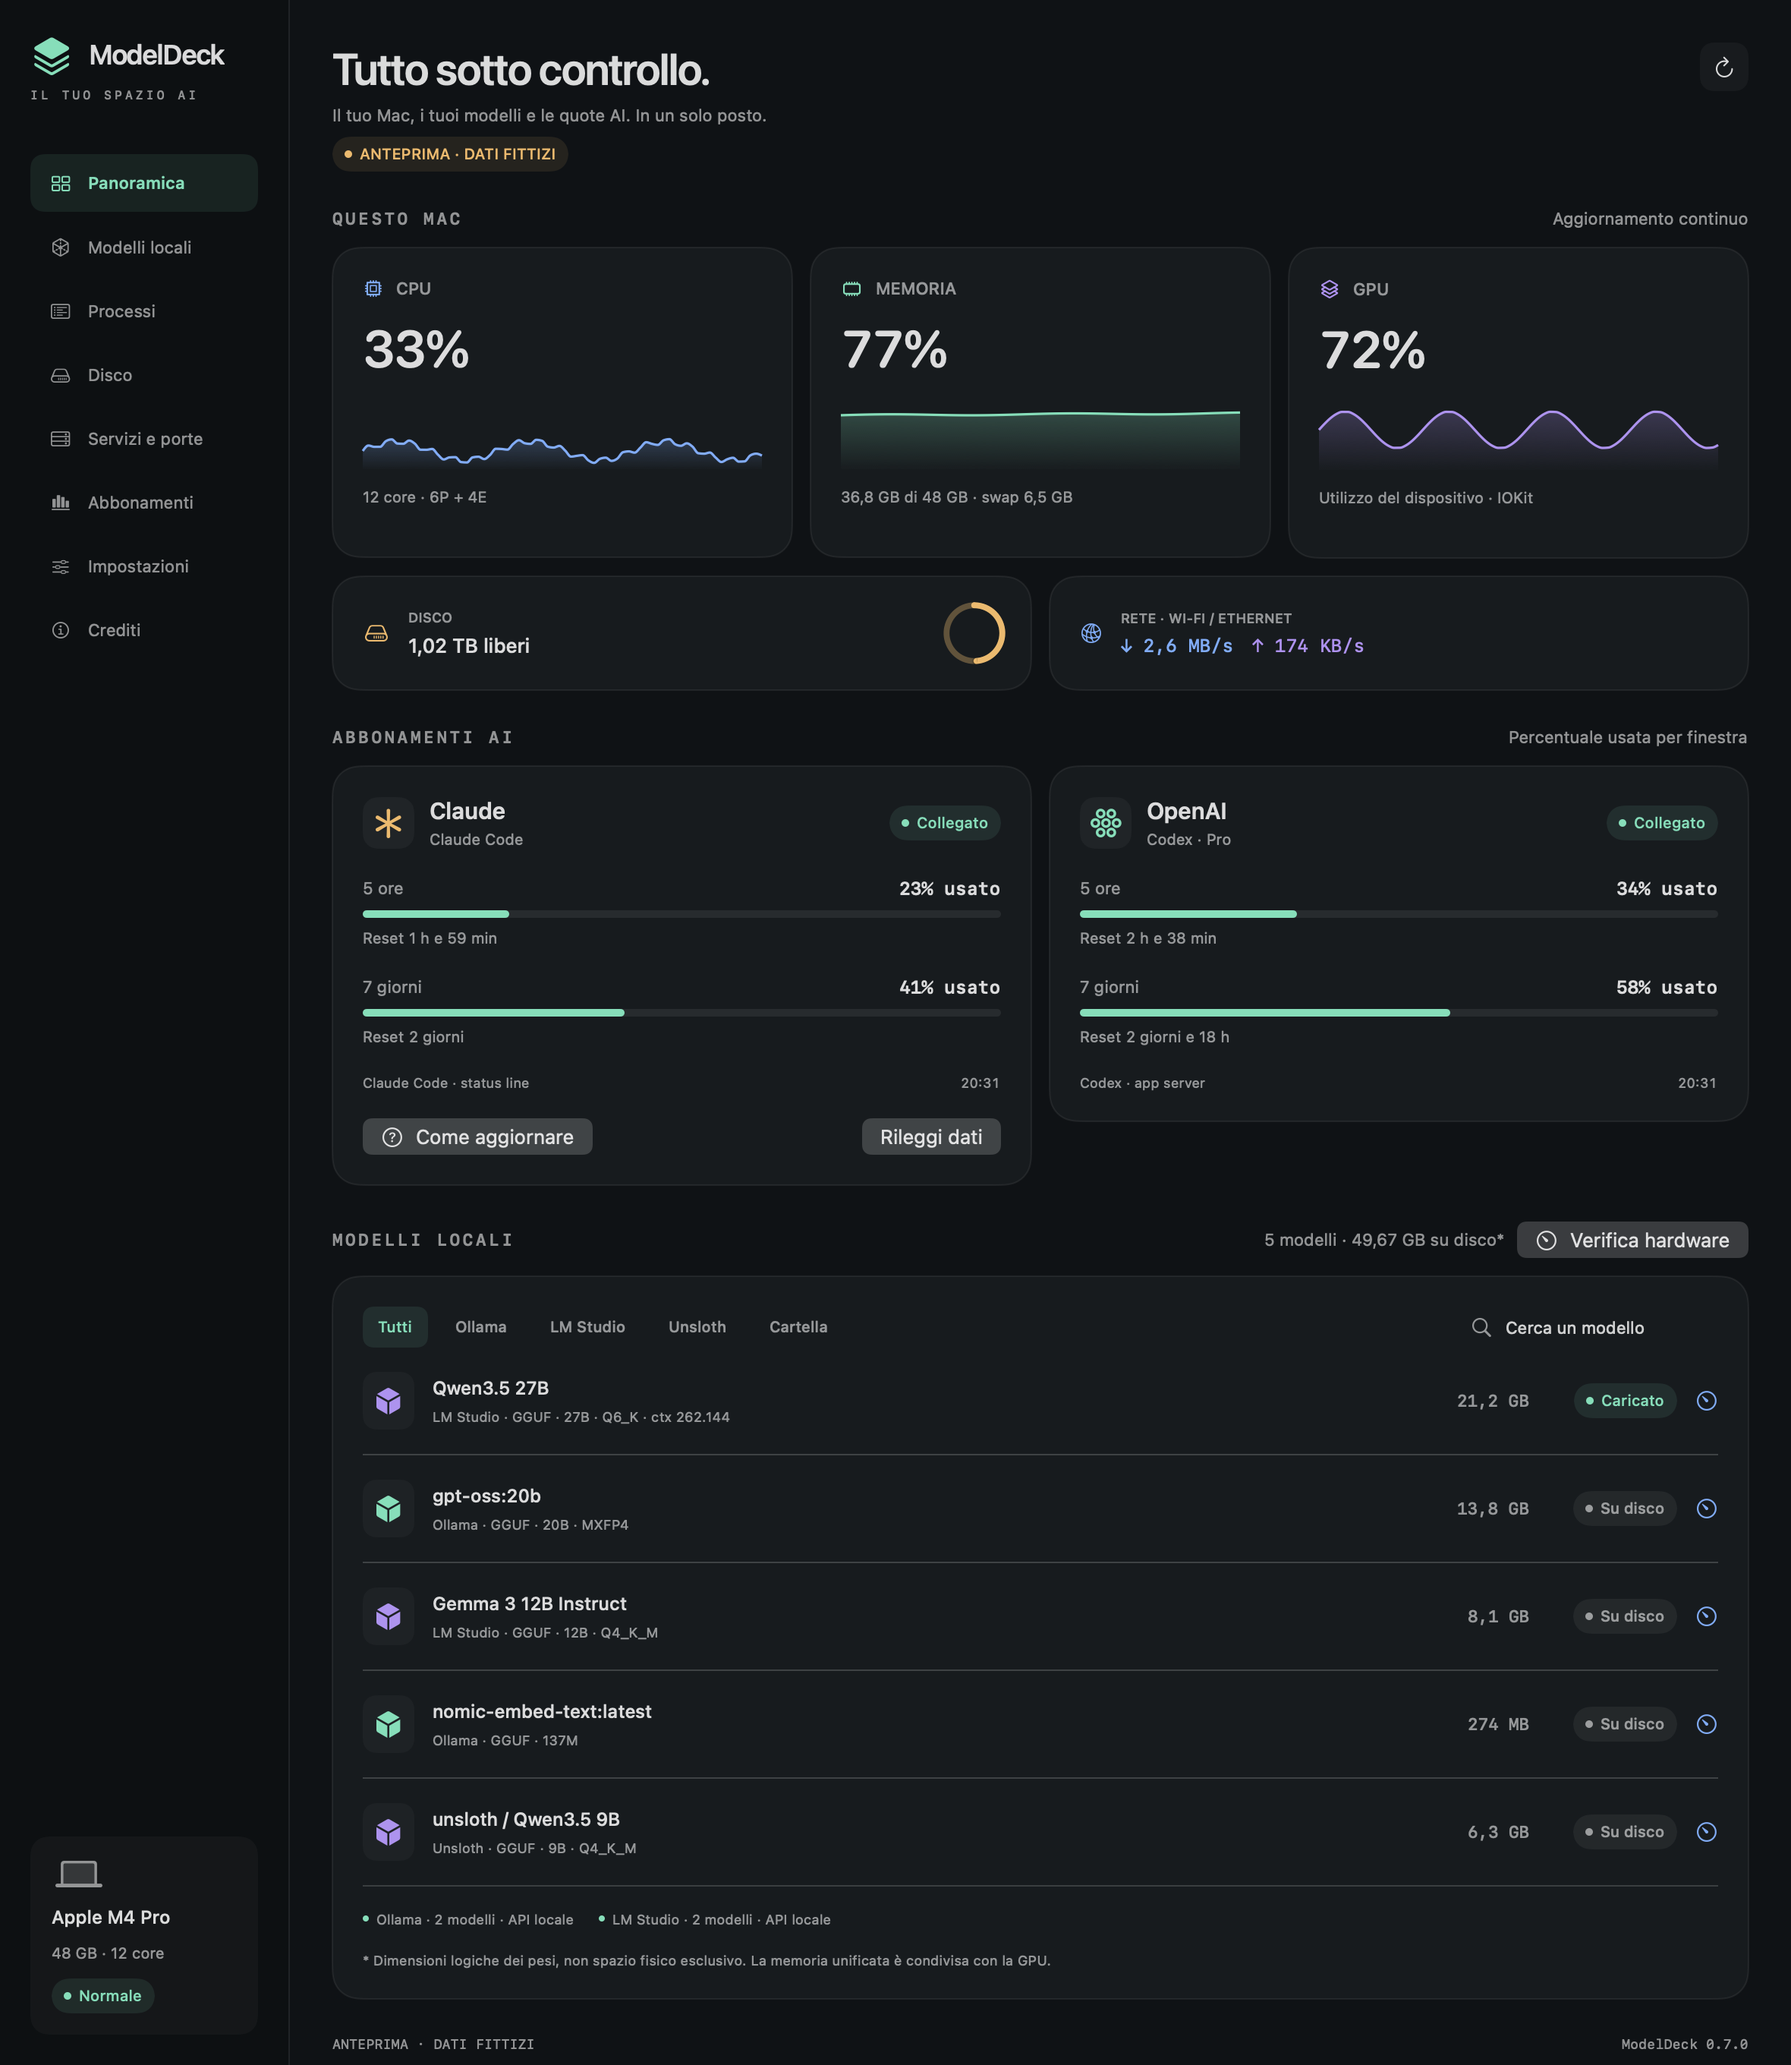
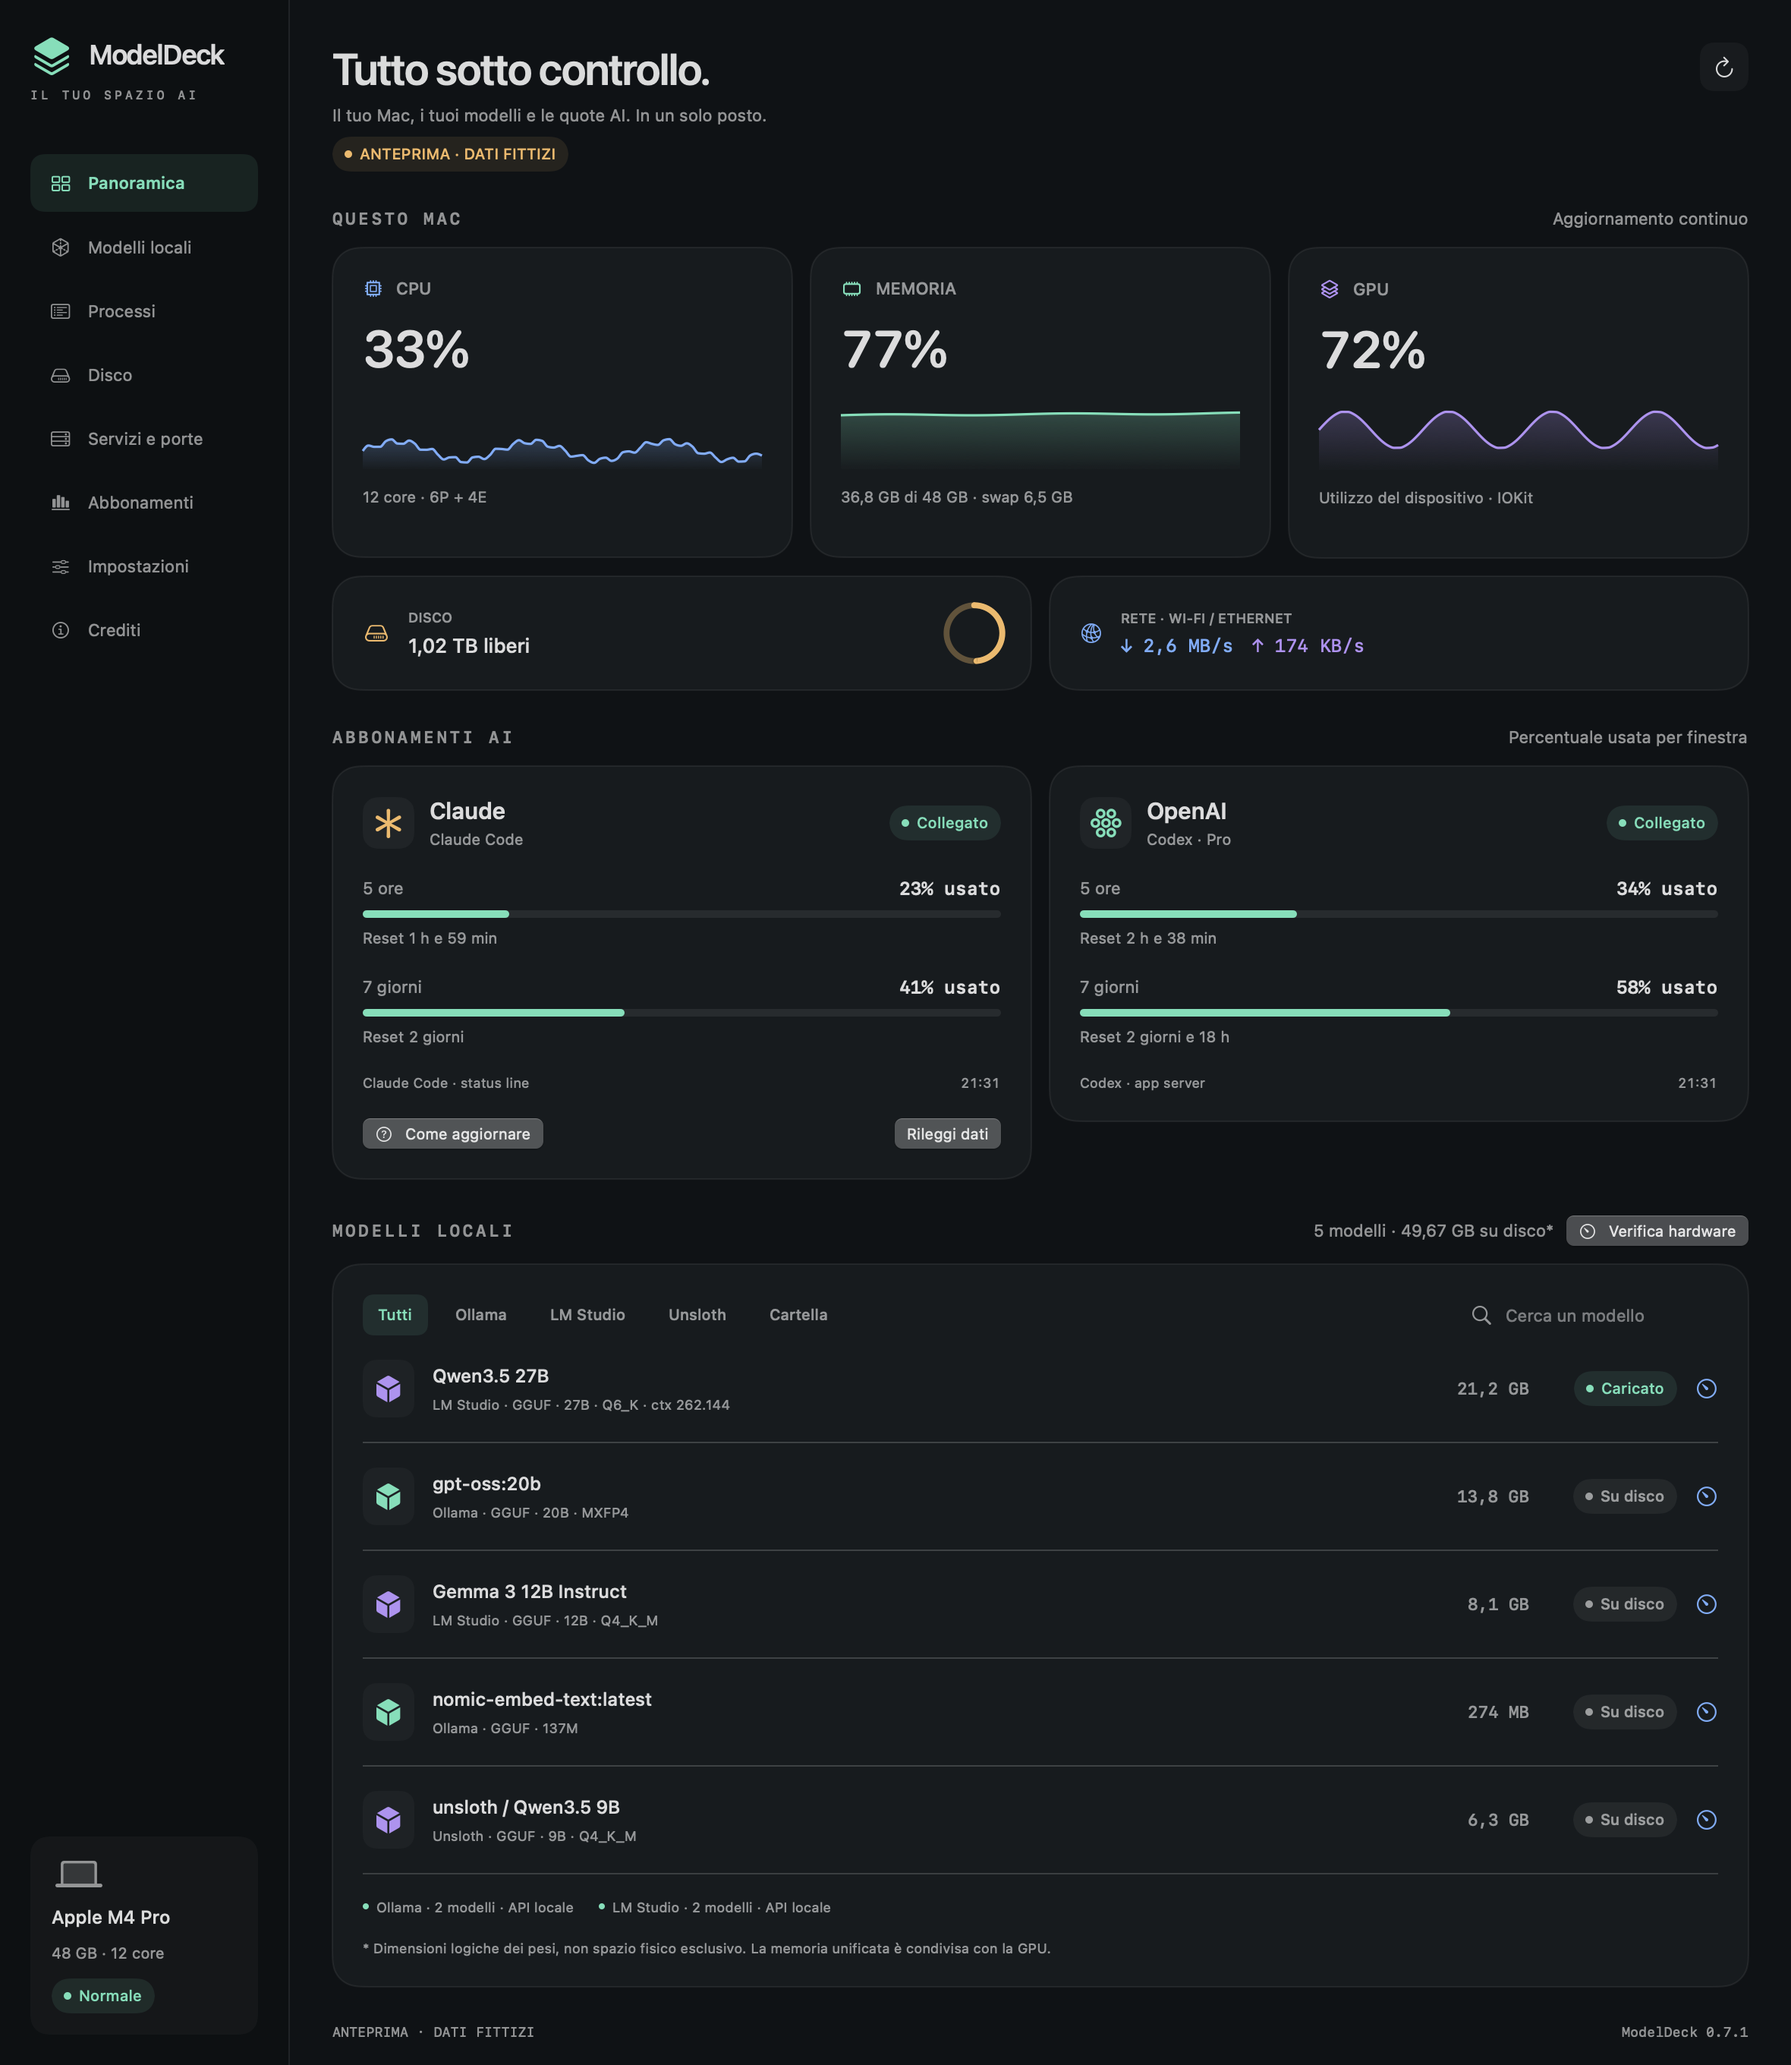
Release 0.7.1 with complete English menu tooltips and selectable build tools
Translate quota durations and freshness messages in native menu tooltips. Allow a selected compiler, SDK and build backend for Command Line Tools packaging, while preserving compatibility with macOS Bash.

Verified standalone localization fixtures, catalog validation, native menu checks in Italian and English, and the signed release bundle. Full XCTest rerun remains blocked by the Xcode license requirement.

diff --git a/Sources/ModelDeck/DeckApplicationDelegate.swift b/Sources/ModelDeck/DeckApplicationDelegate.swift
@@ -133,6 +133,8 @@ import ModelDeckCore
         menuOptionsOverride = options; refreshStatusItem()
         let text = statusItem?.button?.title ?? ""
         let showsValues = text.contains("CPU 33%") && text.contains("RAM") && text.contains(DeckLocalization.menuText("Claude 7g 41% usato")) && text.contains(DeckLocalization.menuText("OpenAI 7g 58% usato"))
+        let tooltip = statusItem?.button?.toolTip ?? ""
+        let localizedTooltip = DeckLanguage.current.code == "en" ? tooltip.contains("7 days") && tooltip.contains("used") && !tooltip.contains("utilizzato") : tooltip.contains("7 giorni")
         let imageAndText = statusItem?.button?.imagePosition == .imageLeading && statusItem?.length == NSStatusItem.variableLength
         store.snapshot.cpu = 41
         let updatesValues = statusItem?.button?.title.contains("CPU 41%") == true
@@ -153,7 +155,7 @@ import ModelDeckCore
         let iconOnly = statusItem?.button?.title.isEmpty == true && statusItem?.length == NSStatusItem.squareLength
         return ["template_icon": statusItem?.button?.image?.isTemplate == true,
                 "button_target": statusItem?.button?.target === self,
-                "selected_values": showsValues, "image_and_text": imageAndText,
+                "selected_values": showsValues, "localized_tooltip": localizedTooltip, "image_and_text": imageAndText,
                 "live_values": updatesValues, "icon_only": iconOnly,
                 "values_while_open": valuesWhileOpen, "values_while_closed": valuesWhileClosed,
                 "two_rows": twoRows, "two_rows_width": compactWidth,

diff --git a/Sources/ModelDeckCore/Localization.swift b/Sources/ModelDeckCore/Localization.swift
@@ -68,10 +68,12 @@ public enum DeckLocalization {
         guard parts.count == arguments.count + 1 else { return template }
         return parts.enumerated().reduce("") { $0 + ($1.offset > 0 ? arguments[$1.offset - 1] : "") + $1.element }
     }
-    public static func menuText(_ value: String) -> String {
-        guard DeckLanguage.current.code == "en" else { return value }
-        var text = value.components(separatedBy: "\n").map { dynamic($0) }.joined(separator: "\n")
-        for (source, target) in [("rimanente", "remaining"), ("usato", "used"), ("non disponibile", "unavailable"), ("da aggiornare", "needs refresh"), ("scaduto", "expired")] {
+    public static func menuText(_ value: String, language: DeckLanguage = .current) -> String {
+        guard language.code == "en" else { return value }
+        var text = value.components(separatedBy: "\n").map { line in
+            line.components(separatedBy: " · ").map { dynamic($0, language: language) }.joined(separator: " · ")
+        }.joined(separator: "\n")
+        for (source, target) in [("non disponibile o in attesa di aggiornamento", "unavailable or awaiting refresh"), ("quota selezionata", "selected quota"), ("ultimo dato", "last reading"), ("da aggiornare", "needs refresh"), ("rimanente", "remaining"), ("utilizzato", "used"), ("usato", "used"), ("non disponibile", "unavailable"), ("scaduto", "expired")] {
             text = text.replacingOccurrences(of: source, with: target)
         }
         text = text.replacingOccurrences(of: "(?<=\\d)g\\b", with: "d", options: .regularExpression)

diff --git a/Tests/ModelDeckCoreTests/LocalizationTests.swift b/Tests/ModelDeckCoreTests/LocalizationTests.swift
@@ -16,4 +16,10 @@ final class LocalizationTests: XCTestCase {
         XCTAssertFalse(usage.stale)
         XCTAssertTrue(usage.needsRefresh)
     }
+    func testMenuTooltipTranslatesDurationsAndFreshnessWithoutChangingItalian() {
+        let source = "Claude · 7 giorni · 58% utilizzato · ultimo dato, da aggiornare"
+        XCTAssertEqual(DeckLocalization.menuText(source, language: .italian), source)
+        XCTAssertEqual(DeckLocalization.menuText(source, language: .english), "Claude · 7 days · 58% used · last reading, needs refresh")
+        XCTAssertEqual(DeckLocalization.menuText("Claude · quota selezionata · non disponibile o in attesa di aggiornamento", language: .english), "Claude · selected quota · unavailable or awaiting refresh")
+    }
 }

diff --git a/Sources/ModelDeckCore/Models.swift b/Sources/ModelDeckCore/Models.swift
@@ -1,6 +1,6 @@
 import Foundation
 
-public enum DeckVersion { public static let current = "0.7.0" }
+public enum DeckVersion { public static let current = "0.7.1" }
 
 public struct MachineInfo: Sendable {
     public var chip = "Mac"

diff --git a/README.md b/README.md
@@ -70,6 +70,8 @@ The local build is ad hoc signed. There is no Developer ID signature, notarizati
 
 The Command Line Tools can build the application; the XCTest suite requires the full Xcode test frameworks and an accepted Xcode license. To build with installed Command Line Tools without changing the global developer selection, use `env DEVELOPER_DIR=/Library/Developer/CommandLineTools bash scripts/build.sh`.
 
+If a tool update changes the available SDK or build engine, `MODELDECK_SWIFT`, `MODELDECK_SDK` and `MODELDECK_BUILD_SYSTEM` optionally pin those selections for this build. For example, with a compatible SDK already installed, use `MODELDECK_SWIFT=/Library/Developer/CommandLineTools/usr/bin/swift MODELDECK_SDK=/Library/Developer/CommandLineTools/SDKs/MacOSX26.5.sdk MODELDECK_BUILD_SYSTEM=native` in the build environment. The icon script uses the same selected SDK and the macOS 14 deployment target.
+
 For development, `swift run ModelDeck` works. A generated `ModelDeck.xcodeproj` is also included. To regenerate it after changing targets, install [XcodeGen](https://github.com/yonaskolb/XcodeGen) and run `xcodegen generate`.
 
 ## Connect your tools
@@ -206,7 +208,7 @@ Disk tests use temporary fixtures for allocated sizes, hard-link deduplication, 
 
 ## Versioning and release tags
 
-The current release is **0.7.0**; changes are listed in [CHANGELOG.md](CHANGELOG.md). Update `VERSION`, `DeckVersion.current` and `project.yml` together. The build reads `VERSION`, includes the localization resource bundle and writes the app's version metadata. Regenerate the Xcode project after adding files or changing its version:
+The current release is **0.7.1**; changes are listed in [CHANGELOG.md](CHANGELOG.md). Update `VERSION`, `DeckVersion.current` and `project.yml` together. The build reads `VERSION`, includes the localization resource bundle and writes the app's version metadata. Regenerate the Xcode project after adding files or changing its version:
 
 ```sh
 xcodegen generate

diff --git a/CHANGELOG.md b/CHANGELOG.md
@@ -1,5 +1,10 @@
 # Changelog
 
+## 0.7.1 — 2026-10-24
+
+- Complete English menu bar tooltips, including quota durations, used/remaining labels and freshness messages.
+- Allow explicit toolchain, SDK and build-backend selection for Command Line Tools builds.
+
 ## 0.7.0 — 2026-10-24
 
 - Show dashboard RAM as a percentage, with byte totals and swap details.
